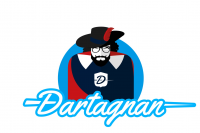
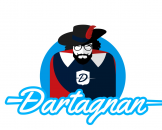
Dimanche-24
Transparence

Changed region(s): [[0.0309, 0.1846, 1.0, 0.9846]]

diff --git a/style.css b/style.css
@@ -49,7 +49,7 @@ h2 {
   position: relative;
   z-index: 2;
   height: 120px;
-  background-color: white;
+  background-color: rgba(255,255,255,0.5);
   margin-left: 15px;
   margin-right: 15px;
   border-radius : 10px 10px 0px 0px;
@@ -72,22 +72,23 @@ h2 {
 }
 .carousel-inner h5 {
   margin: 10px 0 0 0;
-  color: darkgrey;
+  color: grey;
   font-size: 25px;
   margin-bottom: 10px;
 }
 .bulletpoints {
-  color : darkgrey;
+  color : grey;
   font-size: 15px;
   text-align: left;
   padding : 5px;
   margin: 10px;
   border-radius: 10px;
   box-shadow: 2px 2px 2px 1px rgba(0, 0, 0, 0.2);
+  background-color: white;  
 }
 .bd-example {
   position: ;
-  background-color: white;
+  background-color: rgba(255,255,255,0.5);
   margin: 0 15px 15px 15px;
   padding: 15px 20px;
   border-radius: 0 0 10px 10px;
@@ -104,7 +105,7 @@ h2 {
   max-height: 400px;
 }
 .carousel-item  {
-  color: darkgrey;
+  color: grey;
   text-align: center;
 }
 
@@ -112,18 +113,23 @@ h2 {
   text-align: center;
   font-weight: bolder;
 }
+.card {
+  background-color: rgba(255,255,255,0.5);
+}
 .card-body {
-  color: darkgrey;
-  text-align: justify;
+  color: grey;
+  text-align: left;
   font-size: 15px;
   background-color: white;
   border-radius: 10px;
+  background-color: rgba(255,255,255,0.5);
 }
 .accordion {
   margin: 15px;
   border-radius : 15px;
   margin-bottom: 40px;
   margin-top: 40px;
+  background-color: rgba(255,255,255,0);
 }
 .skills {
   display: flex;
@@ -228,6 +234,9 @@ h2 {
 .conteneur {
   display: flex;
   flex-wrap: wrap;
+}
+.card-body {
+  font-size: 13px;
 }
 .carousel-inner {
   height: 600px;

diff --git a/index.html b/index.html
@@ -86,7 +86,7 @@
       <div class="card-body">
       	<div class="date-formation">2016-2020 • Nantes</div>
       	<ul>
-       <li> Master in Management Programme Grandes Ecoles- Majeure Marketing Digital</li>
+       <li> Master in Management Programme Grandes Ecoles - Majeure Marketing Digital</li>
        <li>Spécialisation : Via Hispanica, Négociation et Codage informatique</li>
        <li> Semestre à l'étranger : Boston University</li>
        <li> Association : Responsable communication @Equinox</li>
